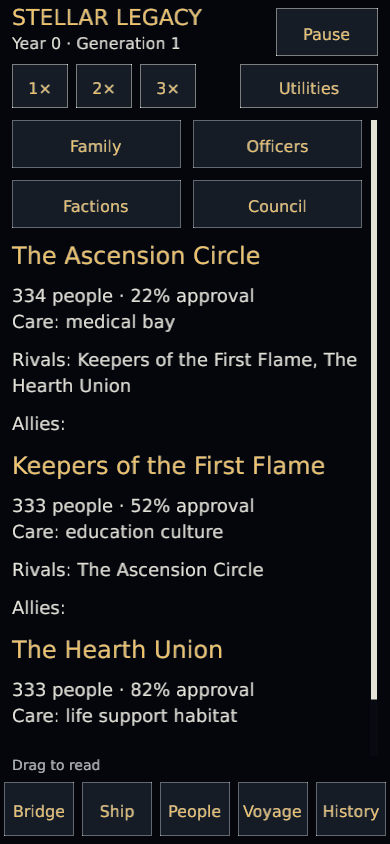
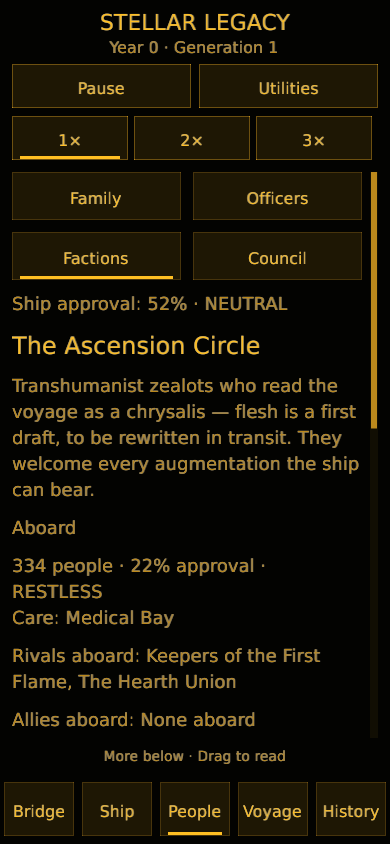
The peoples name their ties and their place aboard (compact faction information)
Faction cards exposed internal subsystem ids and left empty relationship
labels unexplained. Show authored descriptions, aboard/departed status,
approval bands, readable care assignments and explicit empty relations.
Recruitment choices now include the group's description before its price.

Phone captures verify faction text and the recruitment controls at the end
of the list. Clippy and source-size checks pass. publish.ps1 passed Windows
and WebGL packaging, Preview deployment and packaged runtime smoke checks.

diff --git a/src/ui/mobile/people.rs b/src/ui/mobile/people.rs
@@ -84,24 +84,43 @@ pub(super) fn build(ctx: &GameplayCtx<'_>, f: &mut Form, section: &str) {
             }
         }
         "factions" => {
+            f.text(&format!(
+                "Ship approval: {:.0}% · {}",
+                sim.aboard_approval_mean() * 100.0,
+                crate::state::sim::factions::approval_band_label(sim.aboard_approval_mean()),
+            ));
             for people in &sim.factions {
                 if let Some(d) = ctx.data.factions.get(&people.faction_id) {
                     f.heading(&d.name);
+                    f.text(&d.description);
+                    f.text(people.status.label());
+                    if !people.is_aboard() {
+                        continue;
+                    }
                     f.text(&format!(
-                        "{} people · {:.0}% approval\nCare: {}",
+                        "{} people · {:.0}% approval · {}\nCare: {}",
                         people.members,
                         people.approval * 100.0,
-                        d.tended_subsystem.replace('_', " ")
+                        crate::state::sim::factions::approval_band_label(people.approval),
+                        ctx.data
+                            .subsystems
+                            .get(&d.tended_subsystem)
+                            .map_or("No assigned system", |system| system.name.as_str()),
                     ));
                     for (label, ids) in [("Rivals", &d.rivals), ("Allies", &d.allies)] {
+                        let names = ids
+                            .iter()
+                            .filter(|id| sim.is_faction_aboard(id))
+                            .filter_map(|id| ctx.data.factions.get(id))
+                            .map(|d| d.name.as_str())
+                            .collect::<Vec<_>>();
                         f.text(&format!(
-                            "{label}: {}",
-                            ids.iter()
-                                .filter(|id| sim.is_faction_aboard(id))
-                                .filter_map(|id| ctx.data.factions.get(id))
-                                .map(|d| d.name.clone())
-                                .collect::<Vec<_>>()
-                                .join(", ")
+                            "{label} aboard: {}",
+                            if names.is_empty() {
+                                "None aboard".to_owned()
+                            } else {
+                                names.join(", ")
+                            },
                         ));
                     }
                 }
@@ -109,6 +128,8 @@ pub(super) fn build(ctx: &GameplayCtx<'_>, f: &mut Form, section: &str) {
             if sim.contract.is_none()
                 && sim.aboard_faction_count() < ctx.data.config.factions.starting_count
             {
+                f.heading("Recruit a people");
+                f.text("Choose a group to fill an open founding berth while in port.");
                 for id in sim.recruitable_faction_ids(ctx.data) {
                     let name = ctx
                         .data
@@ -116,6 +137,10 @@ pub(super) fn build(ctx: &GameplayCtx<'_>, f: &mut Form, section: &str) {
                         .get(&id)
                         .map_or(id.as_str(), |d| d.name.as_str());
                     let cost = ctx.data.config.factions.recruit_group_cost_credits;
+                    if let Some(definition) = ctx.data.factions.get(&id) {
+                        f.heading(name);
+                        f.text(&definition.description);
+                    }
                     f.action(
                         &format!("Recruit {name} · {cost} credits"),
                         sim.resources.credits >= cost,

diff --git a/gdd.md b/gdd.md
@@ -269,6 +269,9 @@ marker after designation. Family entries include specialization and trait.
 Compact officer entries explain each post, retirement timing and apprenticeship
 succession. Training names its resulting skill, and unaffordable actions show
 the missing credits alongside the available balance.
+Compact faction entries show aboard/departed status, approval bands, authored
+system names and explicit empty relationship states. Recruitment includes each
+group's description before its action.
 Utilities contains Save game, Help, Display & sound and Return to menu.
 Pause/Resume and speed controls remain reachable above blocking decisions.
 Responsive and phone navigation underline the active destination and section;
